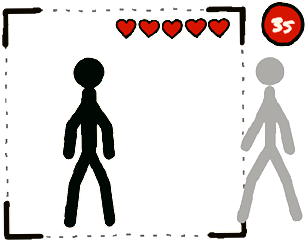
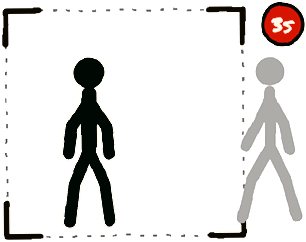
semi final

Changed region(s): [[0.3529, 0.0579, 0.7647, 0.1736]]

diff --git a/tests/test_gestures.py b/tests/test_gestures.py
@@ -2,6 +2,7 @@ import numpy as np
 
 from main.pose import (
     KP,
+    GestureConfig,
     Person,
     PoseState,
     assign_players,
@@ -37,14 +38,29 @@ def test_arms_down_is_neutral():
 
 
 def test_right_arm_pointing_sideways_is_drawn():
-    p = person({KP.R_ELBOW: (190, 162), KP.R_WRIST: (120, 165)})
+    p = person({KP.R_ELBOW: (190, 160), KP.R_WRIST: (120, 150)})
     assert is_arm_extended(p, "right")
     assert classify(p) == PoseState.DRAWN
 
 
 def test_left_arm_pointing_sideways_is_drawn():
-    p = person({KP.L_ELBOW: (410, 160), KP.L_WRIST: (480, 158)})
+    p = person({KP.L_ELBOW: (410, 160), KP.L_WRIST: (480, 150)})
     assert classify(p) == PoseState.DRAWN
+
+
+def test_forearm_level_or_sagging_is_not_drawn():
+    # Straight, level arm, but the wrist isn't above the elbow (rise <= 0 deg < 5 deg).
+    level = person({KP.R_ELBOW: (190, 160), KP.R_WRIST: (120, 160)})
+    sagging = person({KP.R_ELBOW: (190, 162), KP.R_WRIST: (120, 165)})
+    assert not is_arm_extended(level, "right")
+    assert not is_arm_extended(sagging, "right")
+
+
+def test_min_forearm_rise_is_configurable():
+    # Wrist ~3.3 deg above the elbow: below the 5 deg default, fine at 2 deg.
+    p = person({KP.R_ELBOW: (190, 160), KP.R_WRIST: (120, 156)})
+    assert not is_arm_extended(p, "right")
+    assert is_arm_extended(p, "right", GestureConfig(min_forearm_rise=2.0))
 
 
 def test_arm_raised_overhead_is_not_drawn():
@@ -63,7 +79,7 @@ def test_hands_on_chest_is_neutral():
 
 
 def test_low_confidence_is_not_drawn():
-    p = person({KP.R_ELBOW: (190, 162), KP.R_WRIST: (120, 165)}, conf=0.2)
+    p = person({KP.R_ELBOW: (190, 160), KP.R_WRIST: (120, 150)}, conf=0.2)
     assert classify(p) == PoseState.NEUTRAL
 
 

diff --git a/main/ui/widgets.py b/main/ui/widgets.py
@@ -325,15 +325,16 @@ def draw_hold_badge(
     progress: float,
     *,
     at: tuple[float, float],
+    scale: float = 1.0,
 ) -> None:
     """Paper disc + clockwise hold ring + centre glyph (menu cursor / ready-up hands)."""
     x, y = round(at[0]), round(at[1])
-    r = frame.px(46)
+    r = frame.px(46 * scale)
     shadow = pygame.Surface((r * 2 + 8, r * 2 + 8), pygame.SRCALPHA)
     pygame.draw.circle(shadow, (0, 0, 0, 90), (r + 6, r + 7), r)
     surface.blit(shadow, (x - r - 4, y - r - 4))
     pygame.draw.circle(surface, paper.PAPER, (x, y), r)
-    ring_w = max(2, frame.px(6))
+    ring_w = max(2, frame.px(6 * scale))
     track = tuple(int(c * 0.75) for c in paper.PAPER)
     pygame.draw.circle(surface, track, (x, y), r, ring_w)
     if progress > 0:
@@ -355,18 +356,20 @@ def draw_cursor(
     progress: float,
     *,
     at: tuple[float, float] | None,
+    scale: float = 1.0,
 ) -> None:
     """Open palm: white hand icon at `at`. Fist (or a hold in progress): paper badge + hold ring.
 
     `at` is the page's smoothed cursor (`main.nav.cursor.HandCursor`); None draws nothing.
+    `scale` enlarges both states (`GestureNavConfig.cursor_scale`).
     """
     if at is None:
         return
     label = getattr(snap, "label", None)
     if label != "Closed_Fist" and progress <= 0:
-        box = pygame.Rect(0, 0, frame.px(62), frame.px(66))
+        box = pygame.Rect(0, 0, frame.px(62 * scale), frame.px(66 * scale))
         box.center = (round(at[0]), round(at[1]))
         paper.blit_art(surface, PALM_CURSOR, box)
         return
-    draw_hold_badge(surface, frame, FIST_ICON, progress, at=at)
+    draw_hold_badge(surface, frame, FIST_ICON, progress, at=at, scale=scale)
 

diff --git a/main/pose/gestures.py b/main/pose/gestures.py
@@ -46,12 +46,17 @@ def _angle_deg(a: np.ndarray, b: np.ndarray) -> float:
 
 
 def is_arm_extended(p: Person, side: str, cfg: GestureConfig = GestureConfig()) -> bool:
-    """Arm held out roughly horizontally at shoulder height with a fairly straight elbow."""
+    """Arm held out roughly horizontally at shoulder height with a fairly straight elbow,
+    forearm tipped up so the wrist sits at least slightly above the elbow."""
     s_i, e_i, w_i = _ARMS[side]
     if not _visible(p, (s_i, e_i, w_i), cfg):
         return False
     s, e, w = p.xy[s_i], p.xy[e_i], p.xy[w_i]
     if _angle_deg(s - e, w - e) < cfg.min_elbow_angle:
+        return False
+    # Image y grows downward, so elbow_y - wrist_y > 0 means the wrist is higher.
+    rise = math.degrees(math.atan2(float(e[1] - w[1]), abs(float(w[0] - e[0]))))
+    if rise < cfg.min_forearm_rise:
         return False
     dx, dy = abs(w[0] - s[0]), abs(w[1] - s[1])
     if dx < 1e-6:

diff --git a/main/games/how_to_play.py b/main/games/how_to_play.py
@@ -114,6 +114,7 @@ class HowToPlayGame:
         self._lock: int | None = None  # selected button (sticky)
         self._pending: Nav | None = None
         self.pointer = nav_cursor(size, config=cfg)  # same mapping as the menu: no jump
+        self.cursor_scale = cfg.cursor_scale
 
     # -- layout ----------------------------------------------------------------
 
@@ -191,7 +192,9 @@ class HowToPlayGame:
                 progress=self._thumb.progress if self._lock == idx else 0.0,
             )
 
-        widgets.draw_cursor(canvas, f, self.gesture_snapshot, self._thumb.progress, at=self.cursor)
+        widgets.draw_cursor(
+            canvas, f, self.gesture_snapshot, self._thumb.progress, at=self.cursor, scale=self.cursor_scale
+        )
 
     def handle_command(self, command: MenuCommand) -> None:
         """Debug keyboard: arrows pick a button, Enter confirms (Let's go! if none), Back → menu."""

diff --git a/main/games/menu.py b/main/games/menu.py
@@ -83,6 +83,7 @@ class MenuGame:
             required=release_first, open_s=cfg.release_open_s, min_score=cfg.min_score
         )
         self.cursor = nav_cursor(size, config=cfg)
+        self.cursor_scale = cfg.cursor_scale
         self._hard_lock: int | None = None
         self._hover: int | None = None
 
@@ -165,7 +166,12 @@ class MenuGame:
 
         # Pointer last so it sits above the notes.
         widgets.draw_cursor(
-            canvas, f, self.gesture_snapshot, self._thumb.progress, at=self.cursor.position
+            canvas,
+            f,
+            self.gesture_snapshot,
+            self._thumb.progress,
+            at=self.cursor.position,
+            scale=self.cursor_scale,
         )
 
     def handle_command(self, command: MenuCommand) -> None:

diff --git a/tests/test_config.py b/tests/test_config.py
@@ -21,6 +21,8 @@ def test_from_env_overrides_only_set_fields(monkeypatch):
 def test_from_env_gesture_config(monkeypatch):
     monkeypatch.setenv("MAX_ARM_TILT", "45")
     assert from_env(GestureConfig).max_arm_tilt == 45.0
+    monkeypatch.setenv("MIN_FOREARM_RISE", "8")
+    assert from_env(GestureConfig).min_forearm_rise == 8.0
 
 
 def test_bad_value_names_the_setting(monkeypatch):
@@ -58,3 +60,9 @@ def test_messages_skip_empty_and_avoid_repeats():
 
 def test_messages_fallback_when_empty():
     assert Messages([], "hi").pick() == "hi"
+
+
+def test_cursor_scale_defaults_and_env(monkeypatch):
+    assert GestureNavConfig().cursor_scale == 1.5
+    monkeypatch.setenv("CURSOR_SCALE", "2.0")
+    assert from_env(GestureNavConfig).cursor_scale == 2.0

diff --git a/main/ready_up/logic.py b/main/ready_up/logic.py
@@ -10,6 +10,8 @@ from dataclasses import dataclass, field
 from pathlib import Path
 from typing import Iterable, Protocol, Sequence
 
+from main.settings import load_gesture_nav_config
+
 THUMB_UP = "Thumb_Up"
 CLOSED_FIST = "Closed_Fist"
 
@@ -87,6 +89,7 @@ class ReadyUp:
     def __init__(self, width: float, config: ReadyUpConfig) -> None:
         self.width = width
         self.config = config
+        self.cursor_scale = load_gesture_nav_config().cursor_scale  # fist badge size
         self.candidates: list[Candidate] = []
         self._next_id = 1
         self.started: Started | None = None

diff --git a/main/settings/shell.py b/main/settings/shell.py
@@ -44,6 +44,7 @@ class GestureNavConfig:
     cursor_grace_s: float = 0.35  # keep the cursor through hand dropouts this short
     cursor_min_cutoff: float = 1.0  # One-Euro Hz; lower = steadier when still
     cursor_beta: float = 0.02  # One-Euro speed term; higher = less lag when moving
+    cursor_scale: float = 1.5  # palm / fist cursor + ready-up fist badge size (1.0 = mockup size)
     hold_grace_s: float = 0.2  # fist hold survives label flickers this short
     release_open_s: float = 0.12  # a carried-in fist must open this long to count
 

diff --git a/main/ready_up/draw.py b/main/ready_up/draw.py
@@ -69,7 +69,9 @@ def draw_ready_up(
 
     hands = getattr(snap, "hands", ()) if snap is not None else ()
     for center, _label, progress in ready.actionable_holds(hands):
-        widgets.draw_hold_badge(canvas, frame, widgets.FIST_ICON, progress, at=center)
+        widgets.draw_hold_badge(
+            canvas, frame, widgets.FIST_ICON, progress, at=center, scale=ready.cursor_scale
+        )
 
 
 def draw_player_marker(

diff --git a/main/settings/duel.py b/main/settings/duel.py
@@ -46,3 +46,6 @@ class GestureConfig:
     min_elbow_angle: float = 140.0
     # Max angle of the shoulder->wrist line away from horizontal, in degrees.
     max_arm_tilt: float = 30.0
+    # Min angle of the elbow->wrist line above horizontal, in degrees. Positive = wrist
+    # above elbow height; a forearm sagging below this doesn't count as drawn.
+    min_forearm_rise: float = 5.0

diff --git a/main/end_screen/draw.py b/main/end_screen/draw.py
@@ -84,7 +84,9 @@ def draw_end_screen(
         )
 
     if active:
-        widgets.draw_cursor(canvas, f, snap, end.hold_progress, at=end.cursor.position)
+        widgets.draw_cursor(
+            canvas, f, snap, end.hold_progress, at=end.cursor.position, scale=end.cursor_scale
+        )
 
 
 # --- body helpers -------------------------------------------------------------------

diff --git a/tests/test_nav_hand_draw.py b/tests/test_nav_hand_draw.py
@@ -100,7 +100,7 @@ def test_menu_draw_passes_hold_progress_to_paper_cursor(monkeypatch):
     pygame.init()
     calls: list[tuple] = []
 
-    def fake_draw(surf, frame, snap, progress, *, at):
+    def fake_draw(surf, frame, snap, progress, *, at, scale=1.0):
         calls.append((snap, progress))
 
     monkeypatch.setattr("main.ui.widgets.draw_cursor", fake_draw)
